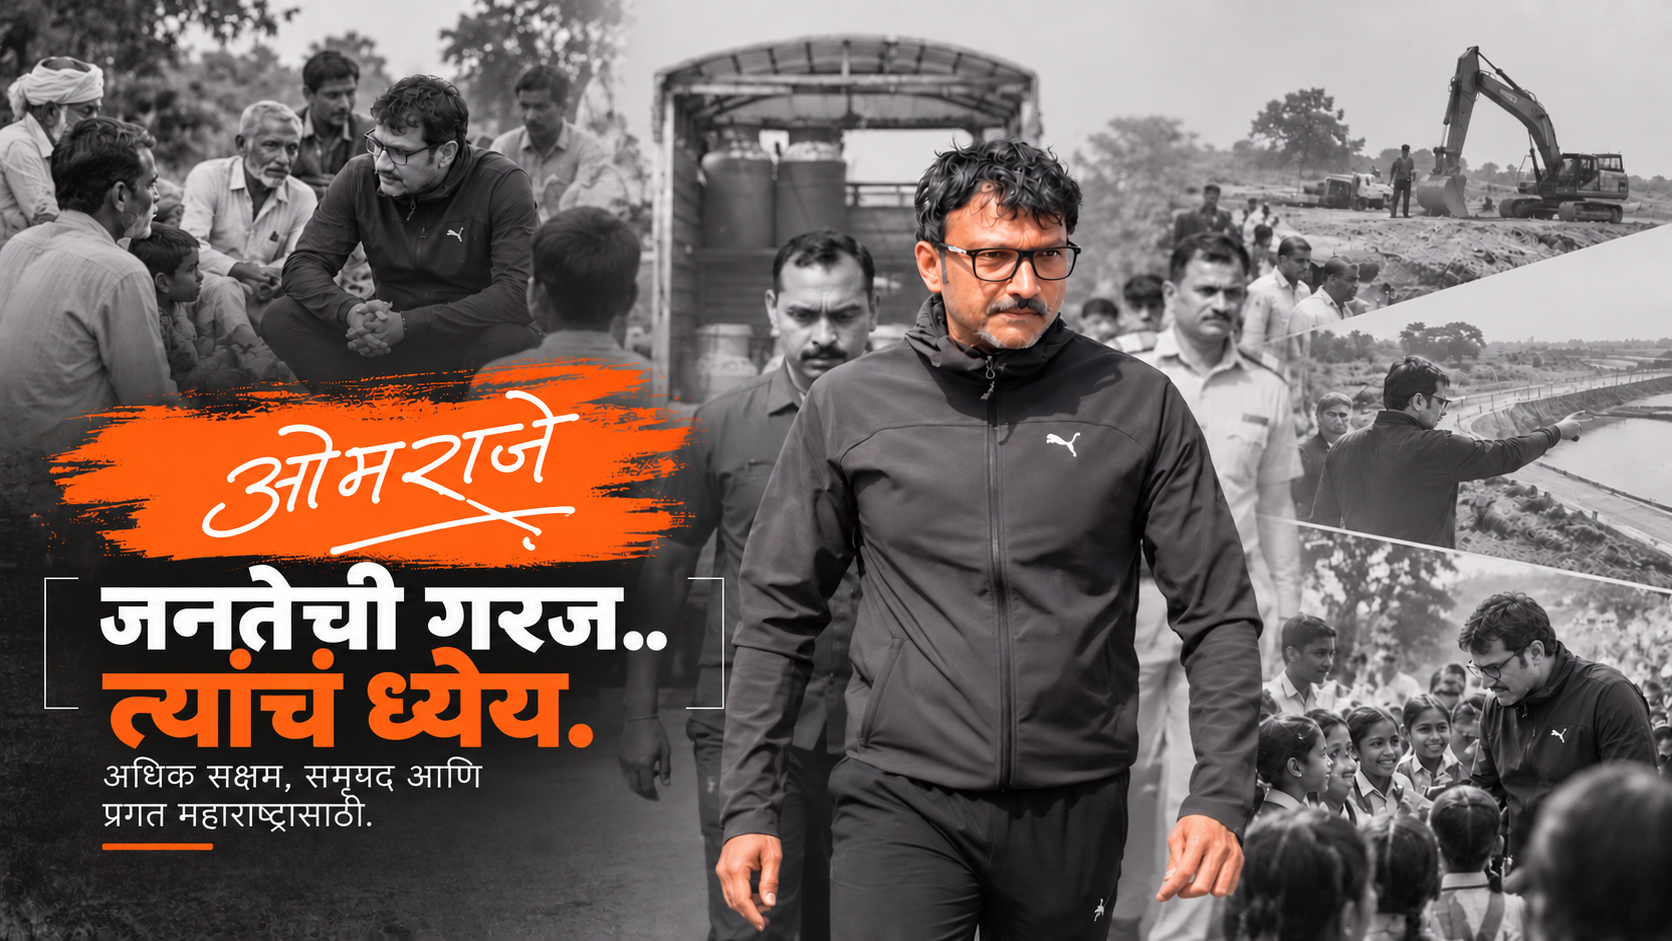
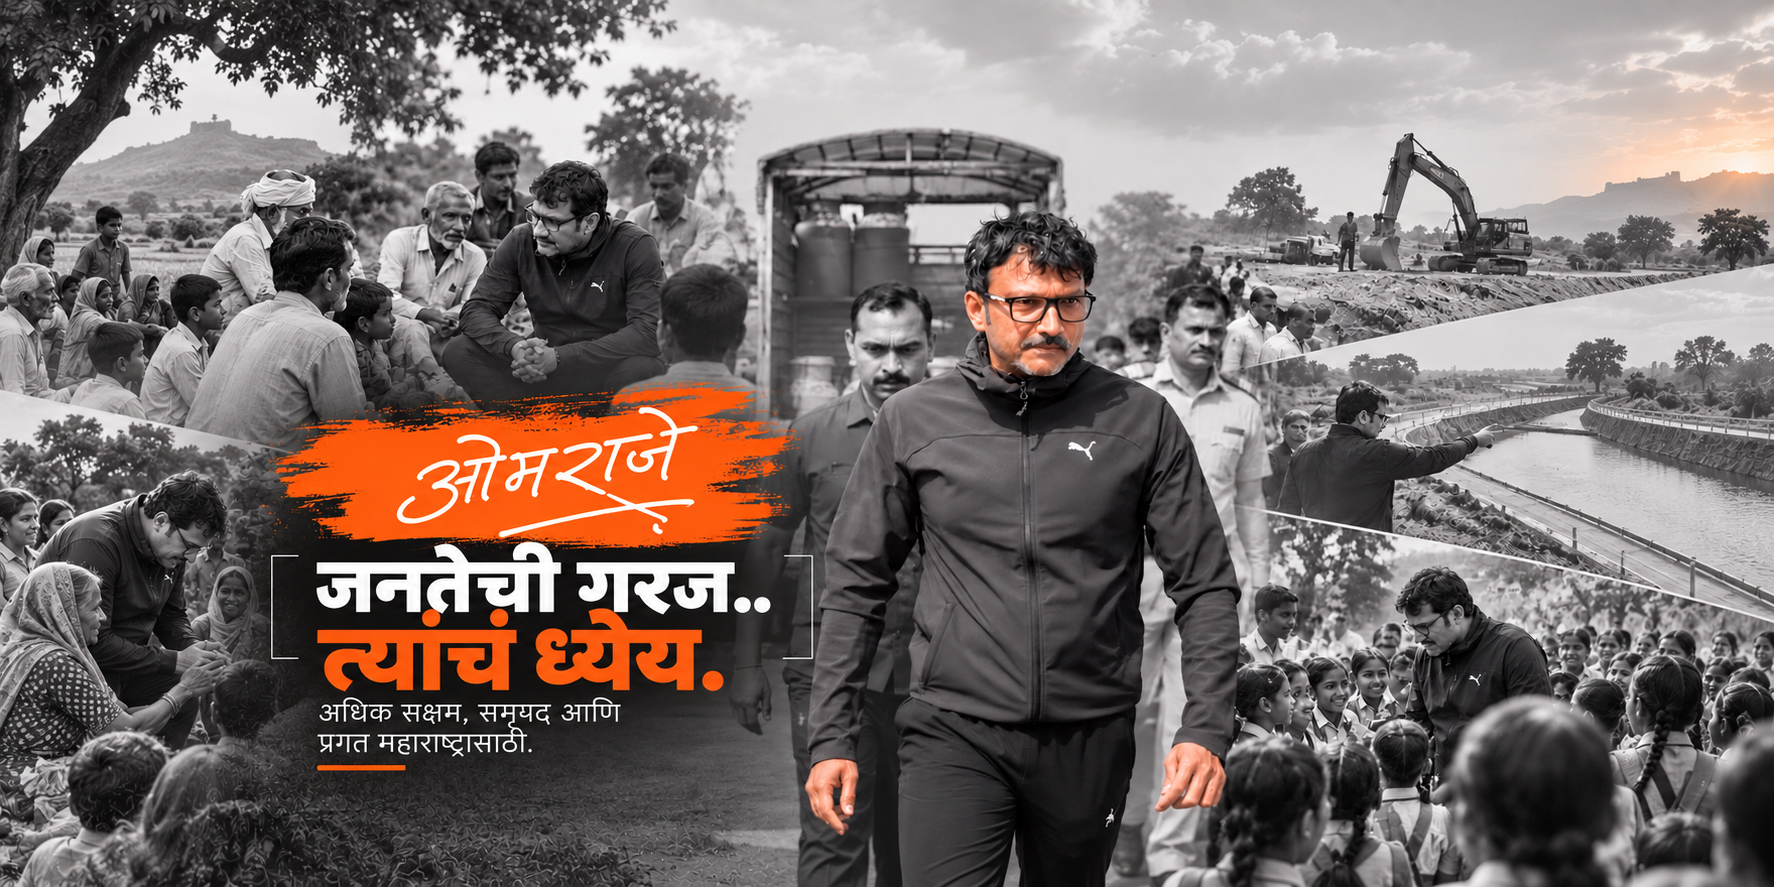
fixed cover image

diff --git a/src/styles.css b/src/styles.css
@@ -28,7 +28,7 @@ button { color: inherit; }
 img { display: block; width: 100%; }
 ::selection { color: var(--dark); background: var(--lime); }
 
-.site { overflow: hidden; }
+.site { overflow: hidden; background: var(--paper); }
 .marathi { font-family: "Noto Sans Devanagari", sans-serif; }
 .marathi .brand-copy, .marathi .form-overline, .marathi .hero-photo-tag,
 .marathi .hero-side-label, .marathi .hero-index, .marathi .section-number,
@@ -56,7 +56,7 @@ img { display: block; width: 100%; }
 .language-divider { color: #62685f; }
 .menu-toggle { display: none; align-items: center; justify-content: center; width: 40px; height: 40px; border: 1px solid #454b45; background: transparent; color: #f4f5ed; cursor: pointer; }
 
-.hero { position: relative; display: block; height: calc(100vh - 112px); height: calc(100svh - 112px); min-height: 480px; padding: 0; overflow: hidden; color: #fff; background: #111614; }
+.hero { position: relative; display: block; width: 100%; height: auto; aspect-ratio: 2 / 1; min-height: 0; margin-inline: auto; padding: 0; overflow: hidden; color: #fff; background: #111614; }
 .hero-cover { position: absolute; inset: 0; width: 100%; height: 100%; object-fit: cover; object-position: center; }
 .hero-cover-actions { position: absolute; z-index: 2; right: var(--page-pad); bottom: 0; display: flex; flex-direction: column; align-items: flex-end; gap: 16px; padding: 32px 0 31px; text-align: right; }
 .hero-cover-actions::before { content: ""; position: absolute; z-index: -1; top: -36px; bottom: 0; left: -40px; right: calc(var(--page-pad) * -1); background: linear-gradient(270deg, rgba(14,17,16,.92), rgba(14,17,16,.65) 75%, transparent); pointer-events: none; }
@@ -247,8 +247,8 @@ img { display: block; width: 100%; }
   .nav-links.is-open { display: flex; }
   .nav-links a { padding: 13px 0; border-bottom: 1px solid #343a34; font-size: 12px; }
   .nav-links a:last-child { border: 0; }
-  .hero { height: calc(100vh - 99px); height: calc(100svh - 99px); min-height: 0; }
-  .hero-cover { object-position: 50% center; }
+  .hero { width: 100%; }
+  .hero-cover { object-position: center; }
   .hero-cover-actions { right: var(--page-pad); gap: 11px; padding: 20px 0 23px; }
   .hero-cover-actions::before { top: -20px; }
   .hero-cover-caption { font-size: 9px; }
